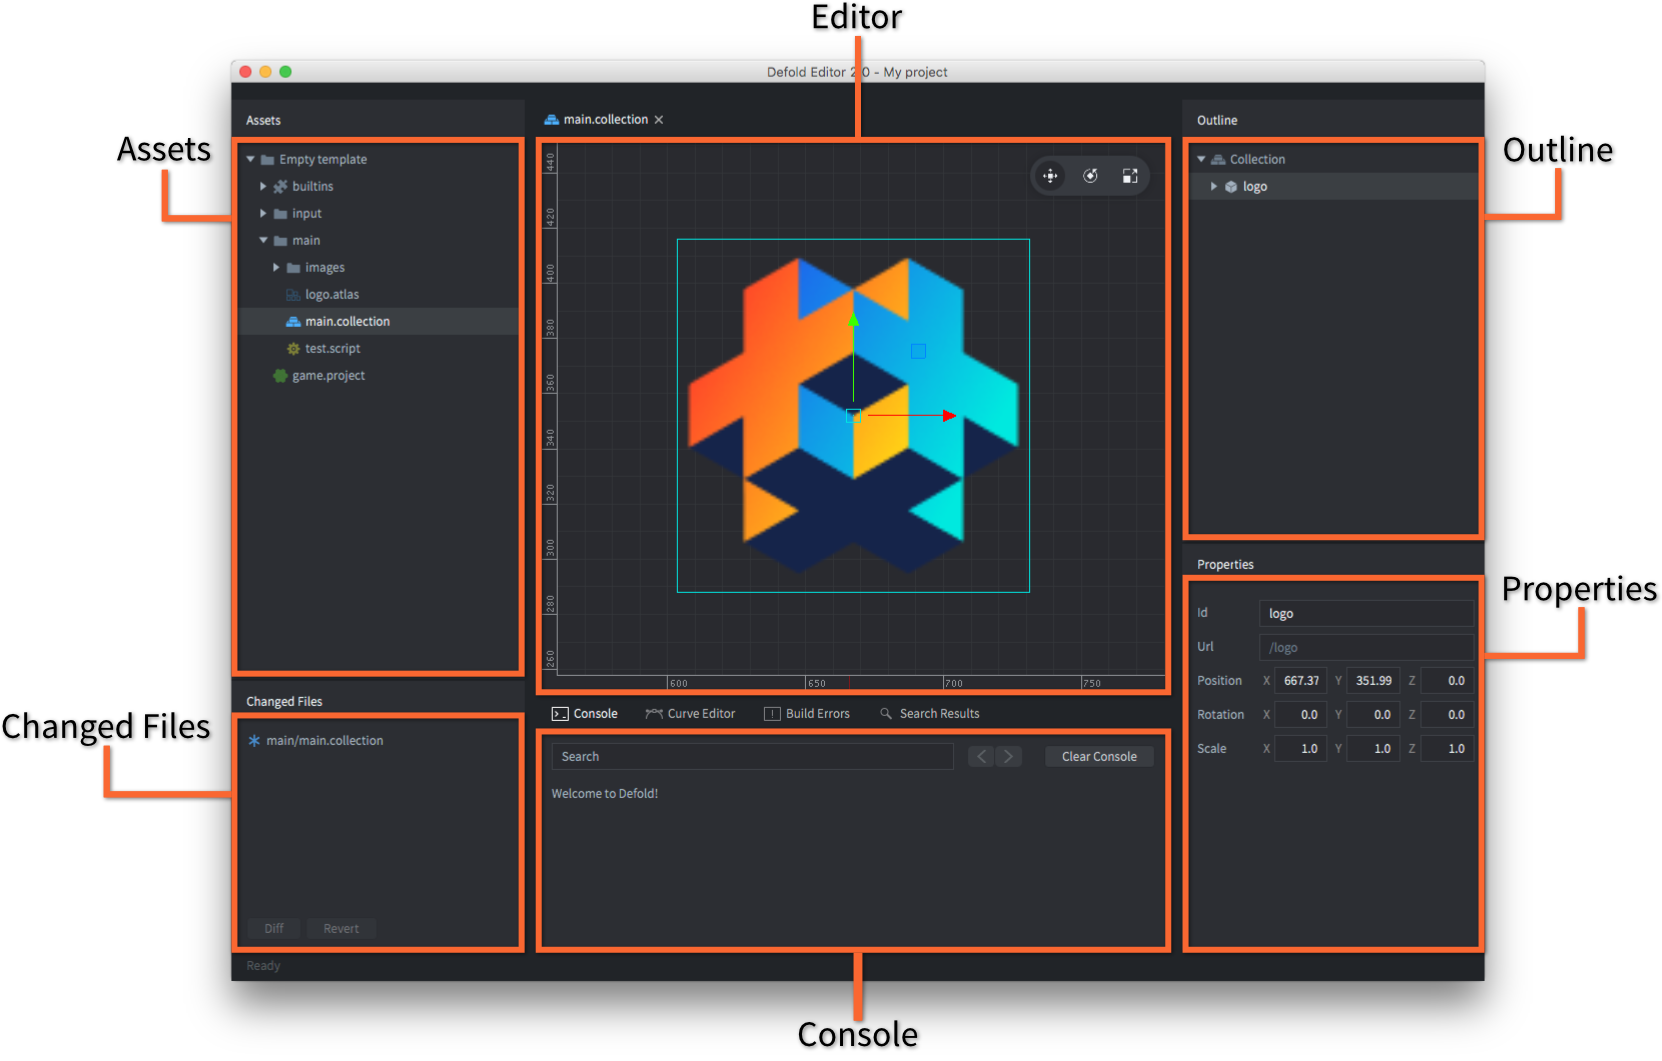
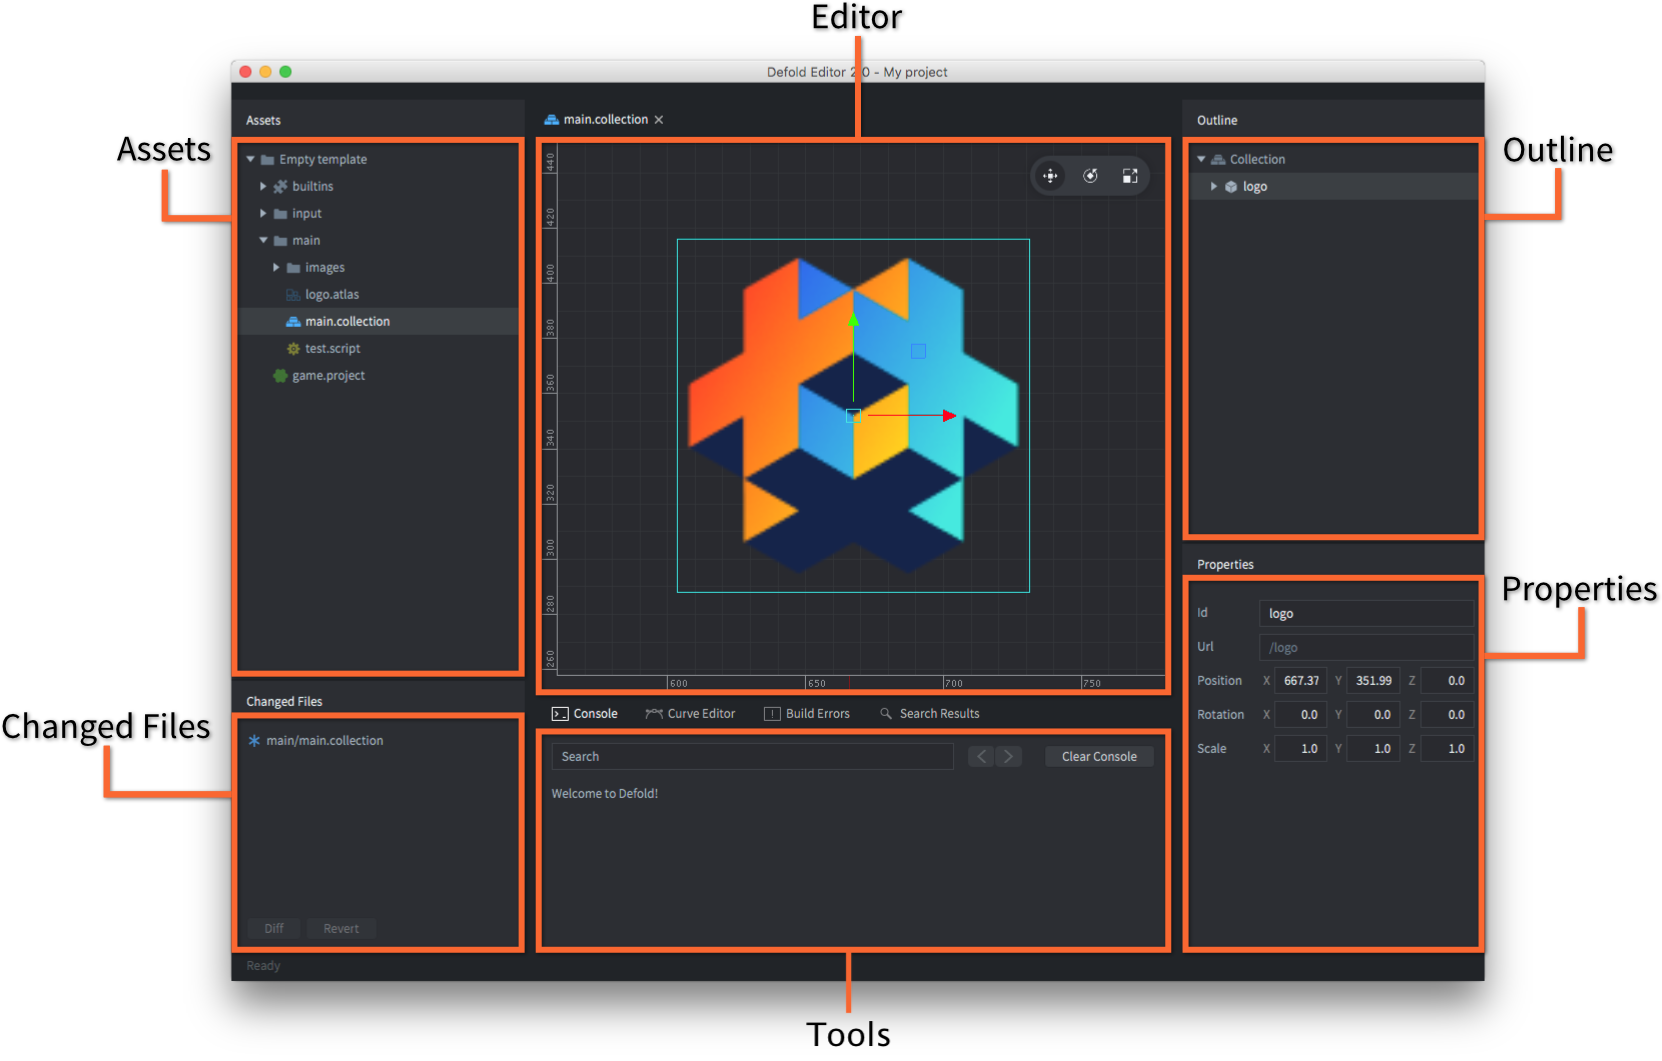
Updated terminology for the editor views/panes

Changed region(s): [[0.4603, 0.2488, 0.6137, 0.4976], [0.4603, 0.902, 0.5523, 0.9953]]

diff --git a/docs/en/manuals/editor.md b/docs/en/manuals/editor.md
@@ -23,20 +23,20 @@ New Project
 
 You can learn more about the different options in the [Project Setup manual](https://www.defold.com/manuals/project-setup/).
 
-## The editor views
+## The editor panes
 
 The Defold editor is separated into a set of panes, or views, that display specific information.
 
 ![Editor 2](images/editor/editor2_overview.png)
 
-The *Assets* view
+The *Assets* pane
 : Lists all the files that are part of your project. Click and scroll to navigate the list. All file oriented operations can be made in this view:
 
    - <kbd>Double click</kbd> a file to open it in an editor for that file type.
    - <kbd>Drag and drop</kbd> to add files from elsewhere on your disk to the project or move files and folders to new locations in the project.
    - <kbd>Right click</kbd> to open a _context menu_ from where you can create new files or folders, rename, delete, track file dependencies and more.
 
-The *Editor* view
+The *Editor* pane
 
 : The center view shows the currently open file in an editor for that file type. All visual editors allows you to change the camera view:
 
@@ -48,23 +48,23 @@ There is a toolbar in the top right corner of the scene view where you find obje
 
 ![toolbar](images/editor/toolbar.png){srcset="images/editor/toolbar@2x.png 2x"}
 
-The *Outline*
+The *Outline* pane
 : This view shows the content of the file currently being edited, but in a hierarchial tree structure. The outline reflects the editor view and allows you to perform operations on your items:
    - <kbd>Click</kbd> to select an item. Hold <kbd>Shift</kbd> or <kbd>Option</kbd> to expand the selection.
    - <kbd>Drag and drop</kbd> to move items. Drop a game object on another game object in a collection to child it.
    - <kbd>Right click</kbd> to open a _context menu_ from where you can add items, delete selected items etc.
 
-The *Properties* view
+The *Properties* pane
 : This view shows properties associated with the currently selected item, like Position, Rotation, Animation etc, etc.
 
-The *Console*
-: This view shows any error output or purposeful printing that you do while your game is running. Alongside the console are tabs containing the *Curve Editor* which is used when editing curves in the particle editor, the *Build Errors* view that shows build errors, and the *Search Results* view that displays search results. The console is also used for interacting with the integrated debugger.
+The *Tools* pane
+: This view has several tabs. The *Console* tab shows any error output or purposeful printing that you do while your game is running. Alongside the console are tabs containing the *Curve Editor* which is used when editing curves in the particle editor, the *Build Errors* view that shows build errors, and the *Search Results* view that displays search results. The console is also used for interacting with the integrated debugger.
 
-The *Changed Files* view:
-: This view lists any files that has been changed, added or deleted in your project. By synchronizing the project regularly you can bring your local copy in sync with what is stored in the project Git repository, that way you can collaborate within a team, and you won’t lose your work if unfortune strikes. Some file oriented operations can be performed in this view:
+The *Changed Files* pane
+: If you project uses the distributed version-control system Git this view lists any files that has been changed, added or deleted in your project. By synchronizing the project regularly you can bring your local copy in sync with what is stored in the project Git repository, that way you can collaborate within a team, and you won’t lose your work if disaster strikes. Some file oriented operations can be performed in this view:
 
-   - <kbd>Double click</kbd> a file to open a diff view of the file. Editor 2 opens the file in a suitable editor, just like in the assets view.
-   - <kbd>Right click</kbd> a file to open a pop up menu from where you can open a diff view, revert all changes done to the file, find the file on the filesystem and more (editor 2).
+   - <kbd>Double click</kbd> a file to open a diff view of the file. The editor opens the file in a suitable editor, just like in the assets view.
+   - <kbd>Right click</kbd> a file to open a pop up menu from where you can open a diff view, revert all changes done to the file, find the file on the filesystem and more.
 
 ## Side-by-side editing
 
